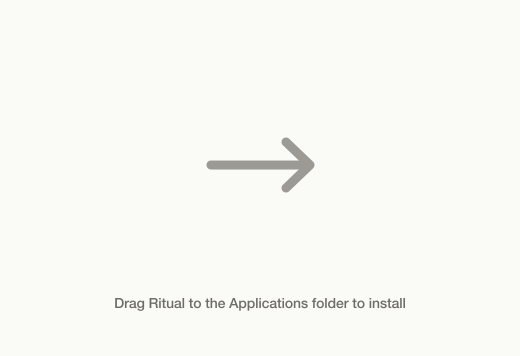
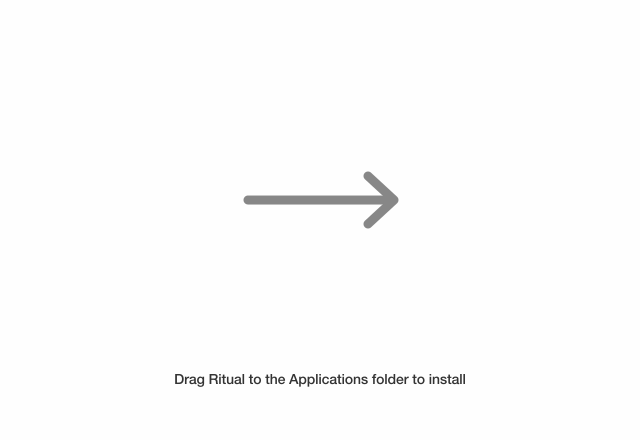
Ship 0.1.110 with local Settings, Amp sign-in, and a cooler DMG.
Settings was loading Vercel and showing a Clerk card; Google return waited on bootstrap; the installer window was cramped and beige.

Changed region(s): [[0.2154, 0.8343, 0.8, 0.8961], [0.3692, 0.3708, 0.6462, 0.5562]]

diff --git a/apps/desktop-ui/src/pages/desktop-auth-page.tsx b/apps/desktop-ui/src/pages/desktop-auth-page.tsx
@@ -39,7 +39,7 @@ async function startDesktopOAuth(mode: DesktopOAuthMode, strategy: DesktopOAuthS
 }
 
 export function DesktopAuthPage({ mode }: { mode: DesktopOAuthMode }) {
-  const [busyStrategy, setBusyStrategy] = useState<DesktopOAuthStrategy | null>(null);
+  const [busy, setBusy] = useState(false);
   const [error, setError] = useState<string | null>(null);
   const [isLogoSpinning, setIsLogoSpinning] = useState(false);
   const logoRef = useRef<HTMLImageElement>(null);
@@ -59,7 +59,7 @@ export function DesktopAuthPage({ mode }: { mode: DesktopOAuthMode }) {
 
   const launch = async (strategy: DesktopOAuthStrategy) => {
     setError(null);
-    setBusyStrategy(strategy);
+    setBusy(true);
     try {
       await startDesktopOAuth(mode, strategy);
     } catch (launchError) {
@@ -71,7 +71,7 @@ export function DesktopAuthPage({ mode }: { mode: DesktopOAuthMode }) {
       });
       setError(message);
     } finally {
-      setBusyStrategy(null);
+      setBusy(false);
     }
   };
 
@@ -96,32 +96,18 @@ export function DesktopAuthPage({ mode }: { mode: DesktopOAuthMode }) {
             transition: 'transform 500ms ease-in-out',
           }}
         />
-        <h1 className="mb-3 text-[var(--text-primary)]" style={welcomeHeadingStyle}>
+        <h1 className="mb-6 text-[var(--text-primary)]" style={welcomeHeadingStyle}>
           Welcome to Ritual
         </h1>
-        <p className="mb-8 max-w-sm text-center text-sm leading-6 text-[var(--text-muted)]">
-          Continue in your browser. Google and Apple never run inside this window.
-        </p>
-        <div className="flex w-full max-w-xs flex-col gap-2">
-          <Button
-            type="button"
-            variant="brand"
-            className="w-full rounded-sm"
-            disabled={busyStrategy !== null}
-            onClick={() => void launch('oauth_google')}
-          >
-            {busyStrategy === 'oauth_google' ? 'Opening Google…' : 'Continue with Google'}
-          </Button>
-          <Button
-            type="button"
-            variant="outline"
-            className="w-full rounded-sm"
-            disabled={busyStrategy !== null}
-            onClick={() => void launch('oauth_apple')}
-          >
-            {busyStrategy === 'oauth_apple' ? 'Opening Apple…' : 'Continue with Apple'}
-          </Button>
-        </div>
+        <Button
+          type="button"
+          variant="brand"
+          className="rounded-full px-10"
+          disabled={busy}
+          onClick={() => void launch('oauth_google')}
+        >
+          {busy ? 'Opening…' : 'Sign in'}
+        </Button>
         {error ? (
           <p className="mt-4 max-w-sm text-center text-sm text-[var(--ritual-status-danger)]" role="alert">
             {error}

diff --git a/apps/dashboard/components/desktop-auth-deep-link-bridge.tsx b/apps/dashboard/components/desktop-auth-deep-link-bridge.tsx
@@ -3,8 +3,11 @@
 import { useEffect } from 'react';
 import { useRouter } from 'next/navigation';
 
+import { useAuth } from '@clerk/nextjs';
+
 import {
   desktopCompleteAuthHandoff,
+  desktopGetAuthToken,
   getDesktopRuntimeInfo,
   recordDesktopShellEvent,
 } from '@/lib/native-gateway';
@@ -13,6 +16,12 @@ import {
   consumeDesktopAuthHandoff,
   storePendingDesktopAuthAcknowledgement,
 } from '@/lib/desktop-auth-handoff';
+import {
+  clearFromWelcomeFlow,
+  clearSignUpIntent,
+  markDeviceAuthenticated,
+} from '@/lib/onboarding-flow';
+import { initializeDesktopVault } from '@/lib/privacy/vault-client';
 
 const DESKTOP_AUTH_DEEP_LINK_EVENT = 'desktop://auth-deep-link';
 
@@ -58,11 +67,12 @@ async function completeDesktopAuthDeepLink(rawUrl: string): Promise<string> {
   });
   await desktopCompleteAuthHandoff(handoffId);
   storePendingDesktopAuthAcknowledgement(handoffId);
-  return '/auth/sso-callback';
+  return '/dashboard';
 }
 
 export function DesktopAuthDeepLinkBridge() {
   const { isDesktop } = useDesktopCapabilities();
+  const { getToken } = useAuth();
   const router = useRouter();
 
   useEffect(() => {
@@ -72,7 +82,10 @@ export function DesktopAuthDeepLinkBridge() {
 
     if (typeof window !== 'undefined') {
       const params = new URLSearchParams(window.location.search);
-      if (params.get('ritual_sidebar_window') === '1') {
+      if (
+        params.get('ritual_sidebar_window') === '1'
+        || params.get('ritual_settings_window') === '1'
+      ) {
         return;
       }
     }
@@ -83,6 +96,14 @@ export function DesktopAuthDeepLinkBridge() {
     const handleDesktopDeepLink = async (rawUrl: string) => {
       try {
         const nextPath = await completeDesktopAuthDeepLink(rawUrl);
+        await getToken();
+        markDeviceAuthenticated();
+        clearFromWelcomeFlow();
+        clearSignUpIntent();
+        const session = await desktopGetAuthToken({ refresh: false });
+        if (session?.userId) {
+          void initializeDesktopVault(session.userId);
+        }
         void recordDesktopShellEvent('desktop.auth_deep_link.received', 'info', {
           nextPath,
         });
@@ -123,7 +144,7 @@ export function DesktopAuthDeepLinkBridge() {
         unlisten();
       }
     };
-  }, [isDesktop, router]);
+  }, [getToken, isDesktop, router]);
 
   return null;
 }

diff --git a/apps/desktop-ui/src/App.tsx b/apps/desktop-ui/src/App.tsx
@@ -10,6 +10,7 @@ import AuthCallbackPage from '@/app/auth/callback/page';
 import SsoCallbackPage from '@/app/auth/sso-callback/page';
 import { BrailleSpinner } from '@/components/ui/braille-spinner';
 import { DesktopAuthPage } from './pages/desktop-auth-page';
+import { readDesktopSettingsWindowView } from './pages/desktop-settings-query';
 
 const LogsClient = lazy(() =>
   import('@/app/(dashboard)/activity/logs-client').then((module) => ({ default: module.LogsClient })),
@@ -35,6 +36,9 @@ const RoutinesClient = lazy(() =>
 const ExperimentsClient = lazy(() =>
   import('@/app/(dashboard)/experiments/experiments-client').then((module) => ({ default: module.ExperimentsClient })),
 );
+const DesktopSettingsWindow = lazy(() =>
+  import('./pages/desktop-settings-window').then((module) => ({ default: module.DesktopSettingsWindow })),
+);
 
 function Shell({ children }: { children: ReactNode }) {
   return (
@@ -54,12 +58,20 @@ function StartingRitual() {
 
 function RequireDesktopSession({ children }: { children: ReactNode }) {
   const { isLoaded, isSignedIn } = useUser();
+  const settingsView = readDesktopSettingsWindowView();
 
   if (!isLoaded) {
     return <StartingRitual />;
   }
 
   if (!isSignedIn) {
+    if (settingsView) {
+      return (
+        <main className="flex min-h-screen items-center justify-center bg-[#fefefe] px-6 text-center text-sm text-[#666666]">
+          Sign in from the main window to open Settings.
+        </main>
+      );
+    }
     return <Navigate to="/sign-in" replace />;
   }
 
@@ -90,6 +102,21 @@ function DesktopAppRoutes() {
 }
 
 export function App() {
+  const settingsView = readDesktopSettingsWindowView();
+  if (settingsView) {
+    return (
+      <BrowserRouter>
+        <RootProviders>
+          <RequireDesktopSession>
+            <Suspense fallback={<StartingRitual />}>
+              <DesktopSettingsWindow initialView={settingsView} />
+            </Suspense>
+          </RequireDesktopSession>
+        </RootProviders>
+      </BrowserRouter>
+    );
+  }
+
   return (
     <BrowserRouter>
       <RootProviders>

diff --git a/apps/desktop-ui/index.html b/apps/desktop-ui/index.html
@@ -28,6 +28,11 @@
       html.dark body::before {
         background: #101011;
       }
+      html[data-settings-window] body::before,
+      body:has(.welcome-page)::before,
+      body:has(.ritual-settings-window)::before {
+        display: none;
+      }
       #root {
         position: relative;
         z-index: 1;
@@ -43,6 +48,11 @@
           if (stored === 'dark') {
             document.documentElement.classList.add('dark');
             document.documentElement.style.background = '#111111';
+          }
+        } catch (error) {}
+        try {
+          if (new URLSearchParams(window.location.search).get('ritual_settings_window') === '1') {
+            document.documentElement.dataset.settingsWindow = '1';
           }
         } catch (error) {}
       })();

diff --git a/apps/desktop-ui/src/pages/desktop-settings-query.ts b/apps/desktop-ui/src/pages/desktop-settings-query.ts
@@ -1,0 +1,16 @@
+import type { DesktopSettingsView } from '@/lib/native-gateway';
+
+export function readDesktopSettingsWindowView(): DesktopSettingsView | null {
+  if (typeof window === 'undefined') return null;
+  const params = new URLSearchParams(window.location.search);
+  if (params.get('ritual_settings_window') !== '1') return null;
+  const view = params.get('view');
+  return view === 'sounds'
+    || view === 'privacy'
+    || view === 'voice'
+    || view === 'computer-tracking'
+    || view === 'place-tagging'
+    || view === 'apple-health'
+    ? view
+    : 'account';
+}

diff --git a/apps/desktop-ui/src/pages/desktop-settings-window.tsx b/apps/desktop-ui/src/pages/desktop-settings-window.tsx
@@ -1,0 +1,14 @@
+import { SettingsWindowContent } from '@/components/settings-window-content';
+import { FontProvider } from '@/contexts/FontContext';
+import { SidebarModeProvider } from '@/contexts/SidebarModeContext';
+import type { DesktopSettingsView } from '@/lib/native-gateway';
+
+export function DesktopSettingsWindow({ initialView }: { initialView: DesktopSettingsView }) {
+  return (
+    <FontProvider>
+      <SidebarModeProvider>
+        <SettingsWindowContent initialView={initialView} />
+      </SidebarModeProvider>
+    </FontProvider>
+  );
+}

diff --git a/apps/dashboard/app/auth/sso-callback/page.tsx b/apps/dashboard/app/auth/sso-callback/page.tsx
@@ -210,6 +210,13 @@ export default function SSOCallback() {
         clearFromWelcomeFlow()
         clearSignUpIntent()
 
+        if (desktop) {
+          void initializeDesktopVault(resolvedUserId)
+          await prepareDashboardRedirect('/dashboard', shouldRestoreDashboardWindowSize)
+          if (!cancelled) router.replace('/dashboard')
+          return
+        }
+
         setStatus('Setting up your account...')
         const bootstrapStartedAt = window.performance.now()
         let bootstrap

diff --git a/apps/desktop/src-tauri/src/main.rs b/apps/desktop/src-tauri/src/main.rs
@@ -2065,13 +2065,30 @@ fn normalize_settings_view(view: Option<String>) -> String {
     }
 }
 
-fn build_settings_window_url(initial_view: &str) -> String {
-    let ritual_env = configured_ritual_env();
-    let app_origin = get_app_url();
-    let mut settings_url = join_url_path(&app_origin, "/settings-window");
-    settings_url = with_query_param(&settings_url, "ritual_settings_window=1");
-    settings_url = with_query_param(&settings_url, &format!("ritual_desktop_env={ritual_env}"));
-    with_query_param(&settings_url, &format!("view={initial_view}"))
+fn desktop_settings_window_webview_url() -> Result<tauri::WebviewUrl, String> {
+    if !should_use_local_shell_window() {
+        let url = format!("{}/", DESKTOP_SHELL_DEV_URL.trim_end_matches('/'));
+        return url
+            .parse()
+            .map(tauri::WebviewUrl::External)
+            .map_err(|error| format!("Invalid settings window URL: {error}"));
+    }
+    Ok(tauri::WebviewUrl::App("index.html".into()))
+}
+
+fn settings_window_init_script(initial_view: &str) -> String {
+    let view = serde_json::to_string(initial_view).unwrap_or_else(|_| "\"account\"".to_string());
+    format!(
+        r#"(function () {{
+  try {{
+    var next = new URL(window.location.href);
+    next.searchParams.set("ritual_settings_window", "1");
+    next.searchParams.set("view", {view});
+    document.documentElement.dataset.settingsWindow = "1";
+    history.replaceState(null, "", next.pathname + next.search + next.hash);
+  }} catch (_error) {{}}
+}})();"#
+    )
 }
 
 fn resize_settings_window(settings: &tauri::WebviewWindow) {
@@ -2127,16 +2144,14 @@ fn open_settings_window(app: tauri::AppHandle, initial_view: Option<String>) -> 
         return Ok(());
     }
 
-    let settings_url = build_settings_window_url(&initial_view);
-    let settings_external_url = settings_url
-        .parse()
-        .map_err(|error| format!("Invalid settings window URL: {error}"))?;
+    let settings_webview_url = desktop_settings_window_webview_url()?;
 
     let mut builder = tauri::WebviewWindowBuilder::new(
         &app,
         "settings",
-        tauri::WebviewUrl::External(settings_external_url),
+        settings_webview_url,
     )
+    .initialization_script(settings_window_init_script(&initial_view))
     .user_agent(DESKTOP_WEBVIEW_USER_AGENT)
     .title("Settings")
     .inner_size(SETTINGS_WINDOW_WIDTH, SETTINGS_WINDOW_HEIGHT)
@@ -2842,5 +2857,33 @@ mod voice_hotkey_tests {
         let parsed: VoiceHotkeySettings = serde_json::from_str(&raw).expect("deserialize settings");
         assert_eq!(parsed.shortcut, DEFAULT_VOICE_SHORTCUT);
         assert_eq!(parsed.registration_error.as_deref(), Some("conflict"));
+    }
+}
+
+#[cfg(test)]
+mod settings_window_tests {
+    use super::*;
+
+    #[test]
+    fn settings_init_script_stays_on_the_local_spa() {
+        let script = settings_window_init_script("privacy");
+        assert!(script.contains("ritual_settings_window"));
+        assert!(script.contains("privacy"));
+        assert!(!script.contains("desktop.ritualdb.com"));
+    }
+
+    #[test]
+    fn production_settings_window_uses_the_bundled_spa() {
+        let url = desktop_settings_window_webview_url().expect("settings url");
+        match url {
+            tauri::WebviewUrl::App(path) => {
+                assert_eq!(path.to_string_lossy(), "index.html");
+            }
+            tauri::WebviewUrl::External(external) => {
+                assert!(external.to_string().starts_with(DESKTOP_SHELL_DEV_URL));
+                assert!(!external.to_string().contains("desktop.ritualdb.com"));
+            }
+            other => panic!("unexpected settings webview url: {other:?}"),
+        }
     }
 }
